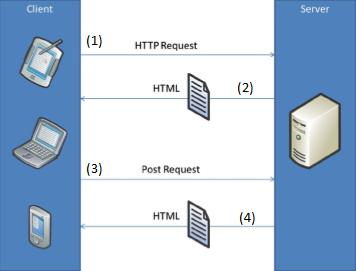
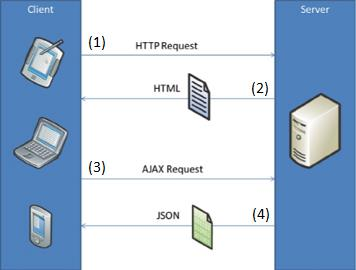
Corrections

diff --git a/texts.tex b/texts.tex
@@ -52,7 +52,7 @@ exigissem uma forma melhor de interagir com estas aplicações.
 
 Para solucionar este problema de desempenho presente nas aplicações tradicionais, surgiu o Ajax. Como descrito por \cite{garrettAjax}, uma aplicação
 Ajax elimina a natureza de interação Web conhecida como \textit{start-stop-start-stop} introduzindo uma camada intermediária — Ajax engine — entre 
-cliente e servidor. Essa camada que permitiu à essas aplicações realizarem requisições ao servidor de forma assíncrona e atualizar parcialmente a 
+cliente e servidor. Essa camada permitiu à essas aplicações realizarem requisições ao servidor de forma assíncrona e atualizar parcialmente a 
 página ao receber a resposta, não impedindo a interação do usuário durante o ciclo de requisição/resposta. Abaixo na Figura \ref{fig:ajax_comparison} 
 podemos ver um comparativo entre aplicações web síncronas e assíncronas.
 
@@ -98,12 +98,12 @@ Podemos ver na Tabela \ref{tab:tabela1} o mapeamento de verbos HTTP com as açõ
 \end{table}
 
 Devido à este aprimoramento constante no que diz respeito ao desenvolvimento de aplicações web, a arquitetura de uma aplicação web está deixando 
-de ser composta por grandes quantidades de códigos server-side, onde todo o processamento é feito no servidor, os códigos são fechados e o consumo 
-de banda é maior aos proprietários do sistema, e passando a ter maior utilização de códigos client-side, onde o processamento dos scripts da página
-ocorre na máquina do cliente e somente quando há necessidade de interação com o banco de dados são feitas requisições ao servidor \cite{spa01}. Neste 
-contexto surgiram as \textit{Single Page Applications} (SPA) definida por \cite{spa02} aplicações compota por somente uma pagina HTML, como base para 
-todas as outras páginas web da aplicação nas quais as interações feitas pelo usuário são implementadas usando JavaScript, HTML e CSS. A Figura 
-\ref{fig:spa} demonstra o funcionamento de uma SPA.
+de ser composta por grandes quantidades de códigos \textit{server-side}, onde todo o processamento é feito no servidor, os códigos são fechados e 
+o consumo de banda é maior aos proprietários do sistema, e passando a ter maior utilização de códigos \textit{client-side}, onde o processamento dos 
+scripts da página ocorre na máquina do cliente e somente quando há necessidade de interação com o banco de dados são feitas requisições ao servidor 
+\cite{spa01}. Neste contexto surgiram as \textit{Single Page Applications} (SPA) definida por \cite{spa02} aplicações compota por somente uma 
+pagina HTML, como base para todas as outras páginas web da aplicação nas quais as interações feitas pelo usuário são implementadas usando JavaScript,
+HTML e CSS. A Figura \ref{fig:spa} demonstra o funcionamento de uma SPA.
 
 \begin{figure}[!ht]
 	\centering	
@@ -121,4 +121,4 @@ comunicação é feita através de requisições AJAX, e os scripts presentes na
 através do \textit{Document Object Model} (DOM). Toda transição de páginas neste tipo de aplicação é realizada \textit{client-side}. Uma das vantagens
 da adoção deste modelo em relação ao modelo anterior é em relação ao overhead de requisições, o que torna a aplicação mais leve e permite melhor 
 usabilidade para o usuário final, devido ao AJAX não bloquear a manipulação da página durante sua execução \cite{spa01}, além de facilitar a 
-portabilidade da aplicação pois este modelo requer uma API \textit{server-side} bem estruturada para funcionar.
+portabilidade da aplicação pois este modelo requer uma API \textit{server-side} robusta e bem estruturada para funcionar.
